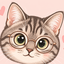
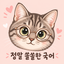
탭·로그인·상단 아이콘도 글씨 포함 전체 이미지로

diff --git a/index.html b/index.html
@@ -6,10 +6,10 @@
 <title>정말 쏠쏠한 국어</title>
 <meta name="description" content="정말 쏠쏠한 국어 · 쏠T 온라인 학습 시스템"/>
 <meta name="theme-color" content="#4f7cff"/>
-<link rel="icon" type="image/png" sizes="32x32" href="icons/face-32.png?v=2"/>
-<link rel="icon" type="image/png" sizes="48x48" href="icons/face-48.png?v=2"/>
-<link rel="apple-touch-icon" href="icons/apple-touch-icon.png?v=2"/>
-<link rel="manifest" href="manifest.json?v=2"/>
+<link rel="icon" type="image/png" sizes="32x32" href="icons/face-32.png?v=3"/>
+<link rel="icon" type="image/png" sizes="48x48" href="icons/face-48.png?v=3"/>
+<link rel="apple-touch-icon" href="icons/apple-touch-icon.png?v=3"/>
+<link rel="manifest" href="manifest.json?v=3"/>
 <meta name="apple-mobile-web-app-title" content="쏠쏠국어"/>
 <meta name="mobile-web-app-capable" content="yes"/>
 <meta name="apple-mobile-web-app-capable" content="yes"/>
@@ -218,7 +218,7 @@ mark{background:rgba(245,158,11,.28);color:var(--text);border-radius:3px;padding
 <div class="page" id="page-login">
   <div class="login-wrap">
     <div class="login-logo">
-      <div class="login-logo-icon" style="background:none;width:84px;height:84px"><img src="icons/face-256.png?v=2" alt="" style="width:84px;height:84px;border-radius:22px"></div>
+      <div class="login-logo-icon" style="background:none;width:150px;height:150px"><img src="icons/face-512.png?v=3" alt="" style="width:150px;height:150px;border-radius:28px"></div>
       <h1>정말 쏠쏠한 국어</h1>
       <p>쏠T 온라인 학습 시스템</p>
     </div>
@@ -253,7 +253,7 @@ mark{background:rgba(245,158,11,.28);color:var(--text);border-radius:3px;padding
 <!-- TEACHER -->
 <div class="page" id="page-teacher">
   <div class="topbar">
-    <div class="topbar-title"><div class="tb-icon" style="background:none"><img src="icons/face-64.png?v=2" alt="" style="width:28px;height:28px;border-radius:8px"></div>정말 쏠쏠한 국어 · 강사</div>
+    <div class="topbar-title"><div class="tb-icon" style="background:none;width:40px;height:40px"><img src="icons/face-128.png?v=3" alt="" style="width:40px;height:40px;border-radius:9px"></div>정말 쏠쏠한 국어 · 강사</div>
     <div class="topbar-right"><span id="teacher-name"></span><button class="btn sm" onclick="doLogout()">로그아웃</button></div>
   </div>
   <div class="tabnav">
@@ -496,7 +496,7 @@ mark{background:rgba(245,158,11,.28);color:var(--text);border-radius:3px;padding
 <!-- STUDENT -->
 <div class="page" id="page-student">
   <div class="topbar">
-    <div class="topbar-title"><div class="tb-icon" style="background:none"><img src="icons/face-64.png?v=2" alt="" style="width:28px;height:28px;border-radius:8px"></div>정말 쏠쏠한 국어</div>
+    <div class="topbar-title"><div class="tb-icon" style="background:none;width:40px;height:40px"><img src="icons/face-128.png?v=3" alt="" style="width:40px;height:40px;border-radius:9px"></div>정말 쏠쏠한 국어</div>
     <div class="topbar-right"><span id="student-name"></span><button class="btn sm" onclick="doLogout()">로그아웃</button></div>
   </div>
   <div class="tabnav">
